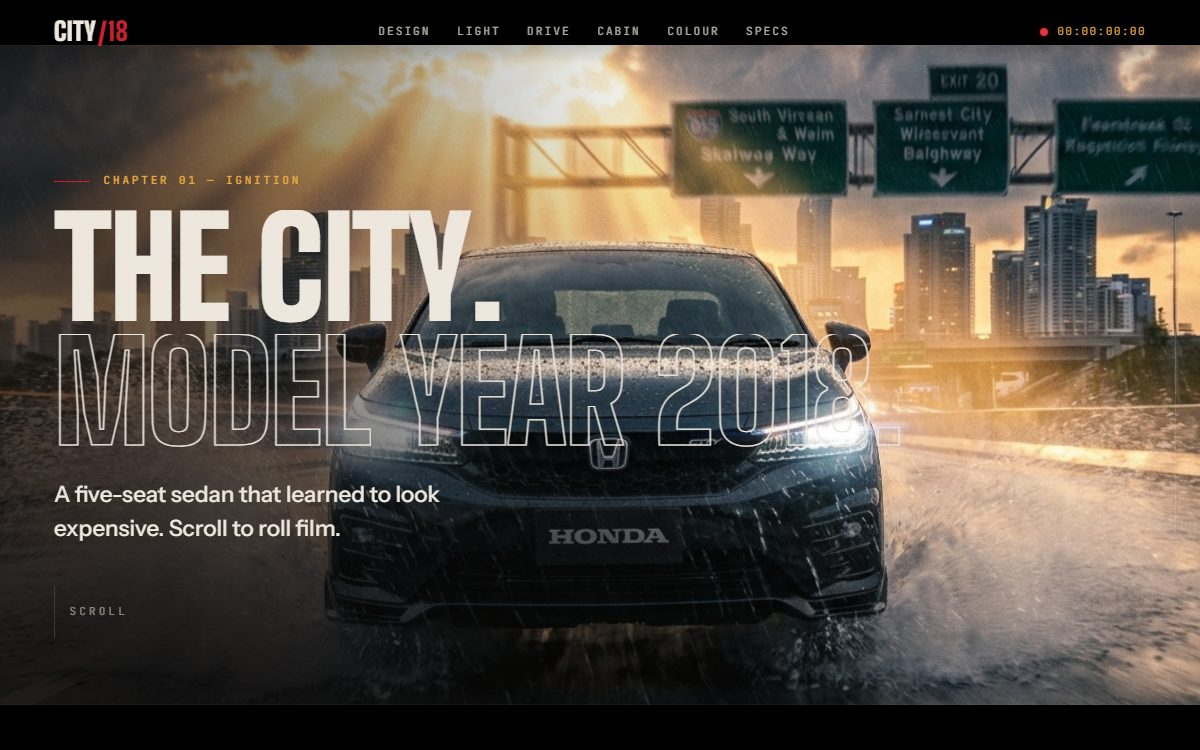
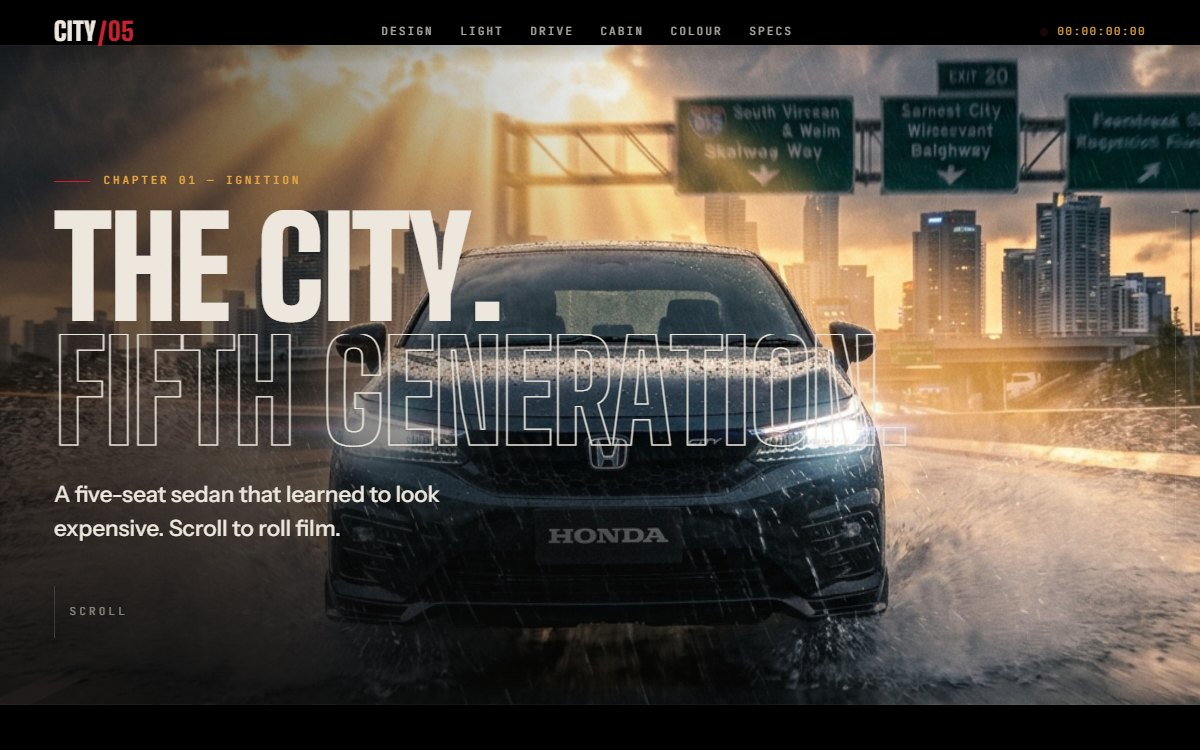
The City: rebrand from City 2018, refresh screenshot

diff --git a/index.html b/index.html
@@ -1538,8 +1538,8 @@
       <div class="site-info"><span class="site-type">Keyboard product launch</span><h3>Vibetyper</h3><p>Scroll-driven 3D product film, 7-layer teardown</p><span class="site-url">vibetyper.pages.dev</span></div>
     </a>
     <a class="site-tile" href="https://honda-city-2018.pages.dev/" target="_blank" rel="noopener">
-      <div class="site-shot"><img src="websites/honda-city-2018.webp" alt="City 2018 cinematic car website" loading="lazy"><span class="site-live">Live ↗</span></div>
-      <div class="site-info"><span class="site-type">Cinematic car showcase</span><h3>City 2018</h3><p>Real photo turned 3D, scroll camera, film look</p><span class="site-url">honda-city-2018.pages.dev</span></div>
+      <div class="site-shot"><img src="websites/honda-city-2018.webp" alt="The City cinematic car website" loading="lazy"><span class="site-live">Live ↗</span></div>
+      <div class="site-info"><span class="site-type">Cinematic car showcase</span><h3>The City</h3><p>Real photo turned 3D, scroll camera, film look</p><span class="site-url">honda-city-2018.pages.dev</span></div>
     </a>
     <a class="site-tile" href="https://klarkyy00.github.io/Klark_portfolio/klarkyytech/" target="_blank" rel="noopener">
       <div class="site-shot"><img src="websites/klarkyytech.webp" alt="KlarkyyTech website" loading="lazy"><span class="site-live">Live ↗</span></div>
@@ -2509,17 +2509,17 @@
     <div class="card-head has-body">
       <div class="head-left">
         <span class="card-tag">Website · Cinematic car showcase</span>
-        <h2 class="card-title">City 2018</h2>
+        <h2 class="card-title">The City</h2>
       </div>
       <div class="chevron">⌄</div>
     </div>
     <div class="card-body-wrap">
       <div class="card-body-inner">
         <div class="card-body">
-          <p class="card-desc">A scroll-driven 3D film about the 2018 Honda City sedan. Scrolling moves one camera through nine chapters, from the headlights switching on to a fade to black. Unofficial fan demo, not affiliated with Honda.</p>
+          <p class="card-desc">A scroll-driven 3D film about the fifth-generation Honda City sedan, made from one real rain-soaked photo. Scrolling moves one camera through nine chapters, from the headlights to a fade to black. Unofficial fan demo, not affiliated with Honda.</p>
 
           <div class="screenshot-gallery">
-            <img src="websites/honda-city-2018.webp" alt="City 2018 website hero" loading="lazy">
+            <img src="websites/honda-city-2018.webp" alt="The City website hero" loading="lazy">
           </div>
 
           <div class="section-label">Features</div>
